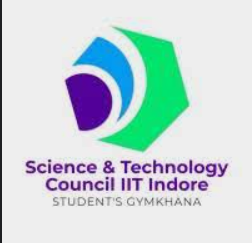
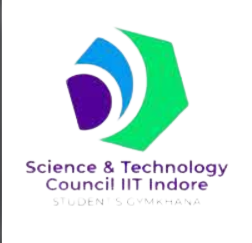
fix: bugs

diff --git a/index.html b/index.html
@@ -606,7 +606,7 @@
                         <div class="prize-icon"><i class="fal fa-trophy"></i></div>
                         <h4>Main Track 2 (Dozee)</h4>
                         <ul>
-                            <li>Prizes upto 25,000 for grabs for the top entries. PPI opportunities will offered to top
+                            <li>Prizes upto 25,000 for grabs for the top entries. PPI opportunities will be offered to top
                                 2 teams.</li>
                         </ul>
 
@@ -634,15 +634,15 @@
             </div>
             <div class="row justify-content-center">
                 <h3>Platinum</h3>
-                <div class="col-lg-2 col-md-6 col-sm-6 col-12 wow zoomIn" data-wow-delay=".2s">
+                <div class="col-lg-3 col-md-6 col-sm-6 col-12 wow zoomIn" data-wow-delay=".2s">
                     <div style="height:280px;" class="single-brand">
-                        <img style="width:150px;height:140px;" src="assets/img/logo/snt.jpeg" alt="">
+                        <img style="width:auto;height:140px; margin: 0 auto;" src="assets/img/logo/snt.png" alt="">
                         <p>Science and Technology Council, IIT Indore</p>
                     </div>
                 </div>
-                <div class="col-lg-2 col-md-6 col-sm-6 col-12 wow zoomIn" data-wow-delay=".4s">
+                <div class="col-lg-3 col-md-6 col-sm-6 col-12 wow zoomIn" data-wow-delay=".4s">
                     <div style="height:280px;" class="single-brand">
-                        <img style="width:150px;height:140px;" src="assets/img/sponsors/gymkhana.jpg" alt="">
+                        <img style="width:auto;height:140px;" src="assets/img/sponsors/gymkhana.jpg" alt="">
                         <p>Students Gymkhana, IIT Indore</p>
                     </div>
                 </div>
@@ -664,43 +664,43 @@
             </div>
             <div class="row justify-content-center">
                 <h3>Gold</h3>
-                <div class="col-lg-2 col-md-6 col-sm-6 col-12 wow zoomIn" data-wow-delay=".2s">
+                <div class="col-lg-4 col-md-6 col-sm-6 col-12 wow zoomIn" data-wow-delay=".2s">
                     <div class="single-brand">
-                        <img style="height:90px;" src="assets/img/sponsors/polygon1.png" alt="">
-                        <p>Polygon</p>
+                        <img style="width:auto; height:8vh;" src="assets/img/sponsors/polygon1.png" alt="">
+                        <!-- <p>Polygon</p> -->
                     </div>
                 </div>
-                <div class="col-lg-2 col-md-6 col-sm-6 col-12 wow zoomIn" data-wow-delay=".4s">
+                <div class="col-lg-4 col-md-6 col-sm-6 col-12 wow zoomIn" data-wow-delay=".4s">
                     <div class="single-brand">
-                        <img style="height:90px;" src="assets/img/sponsors/devfolio1.png" alt="">
-                        <p>Devfolio</p>
+                        <img style="width:auto; height:8vh;" src="assets/img/sponsors/devfolio1.png" alt="">
+                        <!-- <p>Devfolio</p> -->
                     </div>
                 </div>
             </div>
             <div class="row justify-content-center">
                 <h3>Silver</h3>
-                <div class="col-lg-2 col-md-6 col-sm-6 col-12 wow zoomIn" data-wow-delay=".2s">
+                <div class="col-lg-3 col-md-6 col-sm-6 col-12 wow zoomIn" data-wow-delay=".2s">
                     <div class="single-brand">
-                        <img style="height:90px;" src="assets/img/sponsors/tezos1.png" alt="">
-                        <p>Tezos</p>
+                        <img style="width:auto; height:10vh;" src="assets/img/sponsors/tezos1.png" alt="">
+                        <!-- <p>Tezos</p> -->
                     </div>
                 </div>
-                <div class="col-lg-2 col-md-6 col-sm-6 col-12 wow zoomIn" data-wow-delay=".4s">
+                <div class="col-lg-3 col-md-6 col-sm-6 col-12 wow zoomIn" data-wow-delay=".4s">
                     <div class="single-brand">
-                        <img style="height:90px;" src="assets/img/sponsors/dozee.png" alt="">
-                        <p>Dozee</p>
+                        <img style="width: auto; height:10vh;" src="assets/img/sponsors/dozee1.png" alt="">
+                        <!-- <p>Dozee</p> -->
                     </div>
                 </div>
-                <div class="col-lg-2 col-md-6 col-sm-6 col-12 wow zoomIn" data-wow-delay=".4s">
+                <div class="col-lg-3 col-md-6 col-sm-6 col-12 wow zoomIn" data-wow-delay=".4s">
                     <div class="single-brand">
-                        <img style="height:90px;" src="assets/img/sponsors/filecoin1.png" alt="">
-                        <p>Filecoin</p>
+                        <img style="width:auto; height:10vh;" src="assets/img/sponsors/filecoin1.png" alt="">
+                        <!-- <p>Filecoin</p> -->
                     </div>
                 </div>
-                <div class="col-lg-2 col-md-6 col-sm-6 col-12 wow zoomIn" data-wow-delay=".4s">
+                <div class="col-lg-3 col-md-6 col-sm-6 col-12 wow zoomIn" data-wow-delay=".4s">
                     <div class="single-brand">
-                        <img style="height:90px;" src="assets/img/sponsors/celo1.png" alt="">
-                        <p>Celo</p>
+                        <img style="width:auto; height:10vh;" src="assets/img/sponsors/celo1.png" alt="">
+                        <!-- <p>Celo</p> -->
                     </div>
                 </div>
             </div>
@@ -965,7 +965,7 @@
                                 <div class="social-links" style="display: flex; align-items: center;">
                                     <a target="_blank" href="https://discord.gg/GUhhaCt4us"><i
                                                 class="fab fa-2x fa-discord "></i> </a> 
-                                    <span style="margin-left: 10px;">Come join us at discord</span>
+                                    <span style="margin-left: 10px;">Join us at discord</span>
                                 </div>
                             </div>
                         </div>

diff --git a/assets/js/main.js b/assets/js/main.js
@@ -14,12 +14,9 @@
       onePage: false,
     });
     $(".counter").counterUp({ delay: 10, time: 1000 });
-    $(".countdown").downCount(
-      { date: "12/05/2021 12:00:00", offset: +6 },
-      function () {
-        alert("Countdown done!");
-      }
-    );
+    $(".countdown").downCount({ date: "12/15/2021 12:00:00", offset: +6 }, function () {
+      console.log("Countdown done!");
+    });
     $(".popup-link").magnificPopup({
       type: "iframe",
       iframe: {
@@ -108,9 +105,7 @@
       arrows: true,
       prevArrow: '<i class="fas fa-arrow-left slickArrow arrow-prev"></i>',
       nextArrow: '<i class="fas fa-arrow-right slickArrow  arrow-next"></i>',
-      responsive: [
-        { breakpoint: 576, settings: { slidesToShow: 1, slidesToScroll: 1 } },
-      ],
+      responsive: [{ breakpoint: 576, settings: { slidesToShow: 1, slidesToScroll: 1 } }],
     });
     $(".sc_nav_wrapper a.nav-link").on("click", function () {
       let dot = $(".line span");
